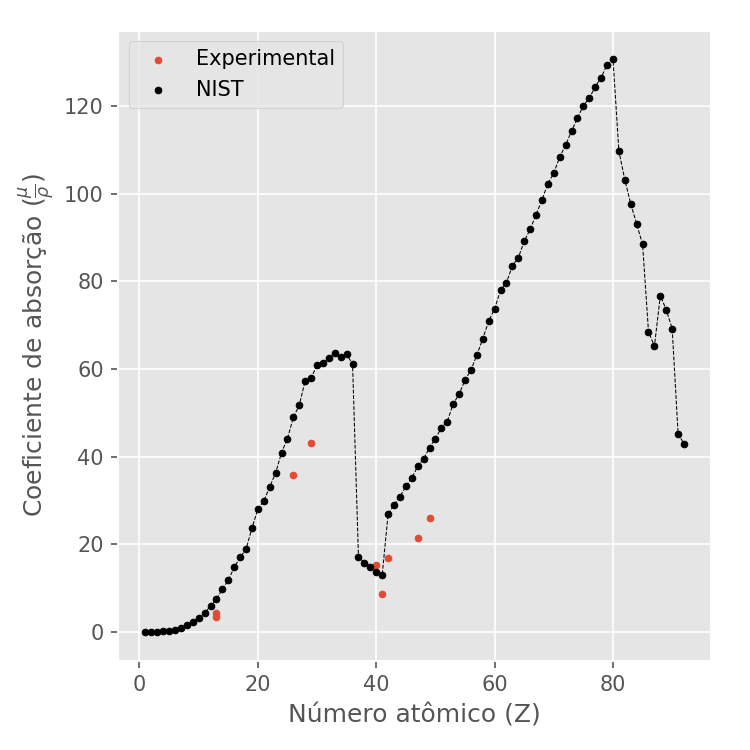
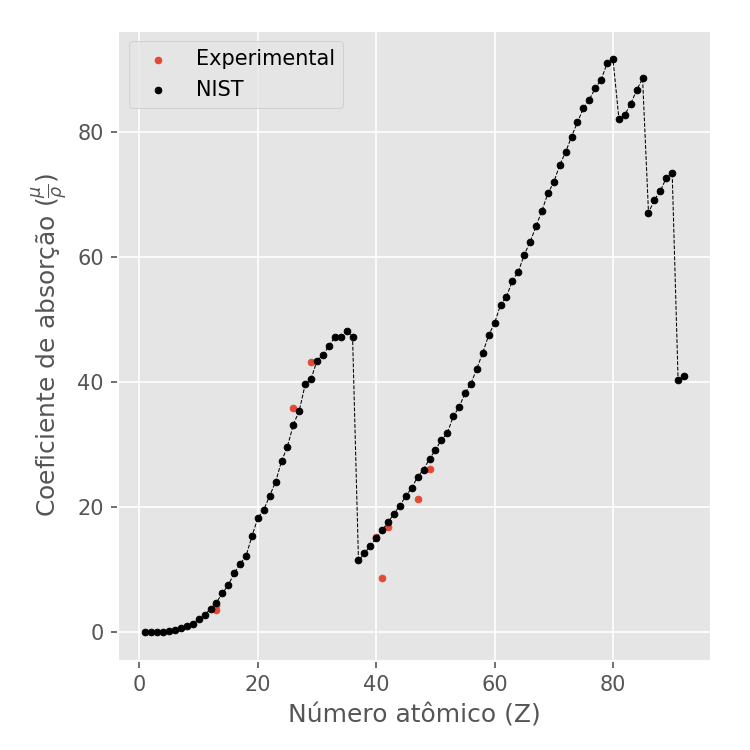
WIP: save state

diff --git a/raio-x/comparação.py b/raio-x/comparação.py
@@ -5,6 +5,22 @@ import os
 import json 
 import pandas as pd 
 
+def interpolate_log_log_antonio(E_target, E1, mu1, E2, mu2):
+    """
+    Executa a interpolação log-log para encontrar mu_target.
+    """
+    log_E_target = np.log(E_target)
+    log_E1 = np.log(E1)
+    log_E2 = np.log(E2)
+    log_mu1 = np.log(mu1)
+    log_mu2 = np.log(mu2)
+
+    log_mu_target = log_mu1 + (log_mu2 - log_mu1) * (log_E_target - log_E1) / (log_E2 - log_E1)
+
+    return np.exp(log_mu_target)
+
+
+
 plt.style.use("ggplot")
 fig,ax=plt.subplots(figsize=(5,5),dpi=150)
 ax.grid(True)
@@ -31,9 +47,15 @@ for Z in Z_values:
     energies = np.array(energies)
     mu_over_rho = np.array(mu_values)
     idx = (np.abs(energies - E_k_alpha)).argmin()
-    mu_over_rho_values.append(mu_over_rho[idx])
+    mu=interpolate_log_log_antonio(E_k_alpha, 
+                                   energies[idx-1], 
+                                   mu_over_rho[idx-1], 
+                                   energies[idx], 
+                                   mu_over_rho[idx])
+    mu_over_rho_values.append(mu)
 
 ax.scatter(Z_values, mu_over_rho_values, label='NIST', color='black',s=10)
 ax.plot(Z_values, mu_over_rho_values, color='black',linewidth=0.5,linestyle='dashed')
 ax.legend()
+
 fig.savefig("comparacao.png")
